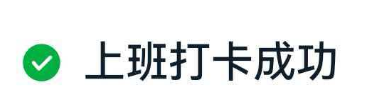
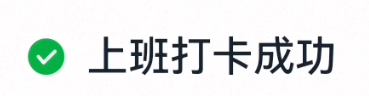
Enhance dingtalk_offwork_sequence.py to dynamically determine action name based on time of day; update PowerShell script to remove redundant random delay arguments; improve path handling in offwork_sequence.py; add schedule configuration management in web_panel_server.py.

Changed region(s): [[0.2087, 0.375, 0.9241, 0.7812], [0.0596, 0.375, 0.1789, 0.8125]]

diff --git a/src/web_panel_server.py b/src/web_panel_server.py
@@ -2,6 +2,7 @@ from __future__ import annotations
 
 import json
 import os
+import re
 import socket
 import subprocess
 import sys
@@ -34,6 +35,7 @@ TASKS = {
 TEMPLATE_DIR = ROOT / "assets" / "templates"
 SCREENSHOT_DIR = ROOT / "screenshots"
 CURRENT_SCREENSHOT = SCREENSHOT_DIR / "current_screen.png"
+SCHEDULE_FILE = LOG_DIR / "schedule_config.json"
 TEMPLATE_STEPS = {
     "morning.work_notice": {"mode": "morning", "mode_label": "上班打卡", "label": "打开上班打卡入口", "file": "morning_work_notice.png", "action": "click"},
     "morning.clock_button": {"mode": "morning", "mode_label": "上班打卡", "label": "点击打卡上班", "file": "morning_clock_button.png", "action": "click"},
@@ -124,13 +126,40 @@ def powershell(command: str, timeout: int = 15) -> subprocess.CompletedProcess:
     )
 
 
+def ps_quote(value: str) -> str:
+    return "'" + value.replace("'", "''") + "'"
+
+
+def parse_duration_minutes(value: str) -> float:
+    text = str(value or "").strip()
+    if not text:
+        return 0
+    match = re.fullmatch(r"(?:(\d+)\.)?(\d{1,2}):(\d{2}):(\d{2})", text)
+    if match:
+        days = int(match.group(1) or 0)
+        hours = int(match.group(2))
+        minutes = int(match.group(3))
+        seconds = int(match.group(4))
+        return days * 1440 + hours * 60 + minutes + seconds / 60
+    match = re.fullmatch(r"P(?:T)?(?:(\d+)H)?(?:(\d+)M)?(?:(\d+)S)?", text, re.IGNORECASE)
+    if match:
+        return int(match.group(1) or 0) * 60 + int(match.group(2) or 0) + int(match.group(3) or 0) / 60
+    return 0
+
+
 def get_single_task_info(task_name: str) -> dict:
     command = (
         f"$t=Get-ScheduledTask -TaskName '{task_name}' -ErrorAction SilentlyContinue; "
         f"$i=Get-ScheduledTaskInfo -TaskName '{task_name}' -ErrorAction SilentlyContinue; "
         "if ($t -and $i) { "
+        "$trigger=($t.Triggers | Select-Object -First 1); "
+        "$action=($t.Actions | Select-Object -First 1); "
+        "$triggerTime=''; if ($trigger -and $trigger.StartBoundary) { $triggerTime=([datetime]$trigger.StartBoundary).ToString('HH:mm') }; "
+        "$randomDelay=''; if ($trigger -and $trigger.RandomDelay) { $randomDelay=$trigger.RandomDelay.ToString() }; "
+        "$arguments=''; if ($action -and $action.Arguments) { $arguments=$action.Arguments }; "
         "[pscustomobject]@{installed=$true;state=$t.State.ToString();nextRun=$i.NextRunTime.ToString('yyyy-MM-dd HH:mm:ss');"
-        "lastRun=$i.LastRunTime.ToString('yyyy-MM-dd HH:mm:ss');lastResult=$i.LastTaskResult} | ConvertTo-Json -Compress "
+        "lastRun=$i.LastRunTime.ToString('yyyy-MM-dd HH:mm:ss');lastResult=$i.LastTaskResult;"
+        "triggerTime=$triggerTime;randomDelay=$randomDelay;arguments=$arguments} | ConvertTo-Json -Compress "
         "} else { [pscustomobject]@{installed=$false;state='Missing'} | ConvertTo-Json -Compress }"
     )
     try:
@@ -138,6 +167,11 @@ def get_single_task_info(task_name: str) -> dict:
         if result.returncode != 0:
             return {"installed": False}
         data = json.loads(result.stdout.strip() or "{}")
+        arguments = data.get("arguments", "") or ""
+        random_delay_match = re.search(r"--random-delay-minutes\s+([0-9.]+)", arguments)
+        command_random_delay_minutes = float(random_delay_match.group(1)) if random_delay_match else 0
+        trigger_random_delay_minutes = parse_duration_minutes(data.get("randomDelay", ""))
+        random_delay_minutes = max(command_random_delay_minutes, trigger_random_delay_minutes)
         return {
             "installed": bool(data.get("installed")),
             "state": data.get("state", ""),
@@ -145,6 +179,9 @@ def get_single_task_info(task_name: str) -> dict:
             "next_run": data.get("nextRun", ""),
             "last_run": data.get("lastRun", ""),
             "last_result": data.get("lastResult", ""),
+            "trigger_time": data.get("triggerTime", ""),
+            "random_delay": data.get("randomDelay", ""),
+            "random_delay_minutes": random_delay_minutes,
         }
     except Exception as exc:
         return {"installed": False, "error": str(exc)}
@@ -158,6 +195,7 @@ def get_task_info() -> dict:
         info["label"] = meta["label"]
         tasks[key] = info
 
+    apply_target_next_runs(tasks)
     installed_tasks = [task for task in tasks.values() if task.get("installed")]
     enabled_tasks = [task for task in installed_tasks if task.get("enabled")]
     next_runs = [task.get("next_run", "") for task in enabled_tasks if task.get("next_run")]
@@ -182,6 +220,60 @@ def trigger_time_for_target(target_time: str, random_window_minutes: int) -> str
     target = parse_hhmm(target_time)
     trigger = target - timedelta(minutes=random_window_minutes)
     return trigger.strftime("%H:%M")
+
+
+def save_schedule_config(morning_time: str, evening_time: str, random_window_minutes: int, workday_only: bool) -> None:
+    LOG_DIR.mkdir(parents=True, exist_ok=True)
+    payload = {
+        "morning_time": morning_time,
+        "evening_time": evening_time,
+        "random_window_minutes": random_window_minutes,
+        "workday_only": workday_only,
+        "updated_at": datetime.now().strftime("%Y-%m-%d %H:%M:%S"),
+    }
+    SCHEDULE_FILE.write_text(json.dumps(payload, ensure_ascii=False, indent=2), encoding="utf-8")
+
+
+def load_schedule_config() -> dict:
+    if not SCHEDULE_FILE.exists():
+        return {}
+    try:
+        return json.loads(SCHEDULE_FILE.read_text(encoding="utf-8"))
+    except Exception:
+        return {}
+
+
+def next_target_run(target_time: str, now: datetime | None = None) -> str:
+    now = now or datetime.now()
+    parsed = parse_hhmm(target_time)
+    candidate = now.replace(hour=parsed.hour, minute=parsed.minute, second=0, microsecond=0)
+    if candidate <= now:
+        candidate += timedelta(days=1)
+    return candidate.strftime("%Y-%m-%d %H:%M:%S")
+
+
+def add_minutes_to_hhmm(value: str, minutes: float) -> str:
+    parsed = parse_hhmm(value)
+    return (parsed + timedelta(minutes=minutes)).strftime("%H:%M")
+
+
+def apply_target_next_runs(tasks: dict) -> None:
+    schedule = load_schedule_config()
+    configured_targets = {"morning": schedule.get("morning_time"), "evening": schedule.get("evening_time")}
+    for key, task in tasks.items():
+        if not task.get("installed"):
+            continue
+        target_time = configured_targets.get(key)
+        if not target_time and task.get("trigger_time"):
+            random_window_minutes = float(task.get("random_delay_minutes") or 0) / 2
+            target_time = add_minutes_to_hhmm(str(task["trigger_time"]), random_window_minutes)
+        if not target_time:
+            continue
+        try:
+            task["target_time"] = str(target_time)
+            task["next_run"] = next_target_run(str(target_time))
+        except ValueError:
+            continue
 
 
 def task_missing_result(result: subprocess.CompletedProcess) -> bool:
@@ -420,25 +512,26 @@ class WebPanelHandler(BaseHTTPRequestHandler):
         for key, target_time in {"morning": morning_time, "evening": evening_time}.items():
             task_name = TASKS[key]["name"]
             trigger_time = trigger_time_for_target(target_time, random_window_minutes)
-            command_text = subprocess.list2cmdline(
-                automation_command(workday_only=workday_only, random_delay_minutes=random_delay_minutes, mode=key)
+            command_parts = automation_command(workday_only=workday_only, random_delay_minutes=0, mode=key)
+            execute = command_parts[0]
+            arguments = subprocess.list2cmdline(command_parts[1:])
+            random_delay_iso = f"PT{random_delay_minutes}M"
+            ps_command = "; ".join(
+                [
+                    "$ErrorActionPreference='Stop'",
+                    f"$Action=New-ScheduledTaskAction -Execute {ps_quote(execute)} -Argument {ps_quote(arguments)} -WorkingDirectory {ps_quote(str(ROOT))}",
+                    f"$Trigger=New-ScheduledTaskTrigger -Daily -At {ps_quote(trigger_time)}",
+                    f"$Trigger.RandomDelay={ps_quote(random_delay_iso)}",
+                    "$Settings=New-ScheduledTaskSettingsSet -AllowStartIfOnBatteries -DontStopIfGoingOnBatteries",
+                    f"Register-ScheduledTask -TaskName {ps_quote(task_name)} -Action $Action -Trigger $Trigger -Settings $Settings -Force | Out-Null",
+                    f"Write-Output {ps_quote('已注册计划任务：' + task_name + '，触发时间：' + trigger_time + '，Windows随机延迟：' + random_delay_iso)}",
+                ]
             )
-            command = [
-                "schtasks",
-                "/Create",
-                "/TN",
-                task_name,
-                "/TR",
-                command_text,
-                "/SC",
-                "DAILY",
-                "/ST",
-                trigger_time,
-                "/F",
-            ]
-            result = subprocess.run(command, cwd=ROOT, text=True, capture_output=True, creationflags=CREATE_NO_WINDOW)
+            result = powershell(ps_command, timeout=30)
             outputs.append({"task": task_name, "ok": result.returncode == 0, "stdout": result.stdout, "stderr": result.stderr})
             ok = ok and (result.returncode == 0 or task_missing_result(result))
+        if ok:
+            save_schedule_config(morning_time, evening_time, random_window_minutes, workday_only)
         self.send_json(
             {
                 "ok": ok,
@@ -462,6 +555,8 @@ class WebPanelHandler(BaseHTTPRequestHandler):
             )
             outputs.append({"task": task_name, "ok": result.returncode == 0, "stdout": result.stdout, "stderr": result.stderr})
             ok = ok and result.returncode == 0
+        if ok and SCHEDULE_FILE.exists():
+            SCHEDULE_FILE.unlink()
         self.send_json({"ok": ok, "outputs": outputs, "task": get_task_info()})
 
     def set_task_enabled(self, enabled: bool) -> None:

diff --git a/scripts/dingtalk_offwork_sequence.py b/scripts/dingtalk_offwork_sequence.py
@@ -65,17 +65,21 @@ def parse_args() -> argparse.Namespace:
 def main() -> int:
     args = parse_args()
     run_date = parse_date(args.date) if args.date else date.today()
+    mode = args.mode
+    if mode == "auto":
+        mode = "morning" if datetime.now().hour < 12 else "evening"
+    action_name = "上班打卡序列" if mode == "morning" else "下班打卡序列"
 
     if args.workday_only:
         description = describe_china_workday(run_date)
         print(description)
         if not is_china_workday(run_date):
             print("跳过：今天不是中国工作日")
-            append_action("下班打卡序列", "跳过", "今天不是中国工作日", {"date": run_date.isoformat()})
+            append_action(action_name, "跳过", "今天不是中国工作日", {"date": run_date.isoformat(), "mode": mode})
             return 0
     if args.dry_run:
         print("检查完成：今天会执行点击序列")
-        append_action("下班打卡序列", "检查", "今天会执行点击序列", {"date": run_date.isoformat()})
+        append_action(action_name, "检查", "今天会执行点击序列", {"date": run_date.isoformat(), "mode": mode})
         return 0
 
     try:
@@ -90,9 +94,6 @@ def main() -> int:
                 {"seconds": wait_seconds, "max_seconds": max_seconds},
             )
             time.sleep(wait_seconds)
-        mode = args.mode
-        if mode == "auto":
-            mode = "morning" if datetime.now().hour < 12 else "evening"
         print(f"打卡模式：{'上班打卡' if mode == 'morning' else '下班打卡'}")
         run_offwork_sequence(
             package=args.package,

diff --git a/src/offwork_sequence.py b/src/offwork_sequence.py
@@ -7,6 +7,7 @@ from typing import Callable
 
 from src.adb import force_stop_package, launch_package, lock_screen
 from src.run_state import append_action, mark_completed
+from src.paths import resource_path
 from src.scrcpy import click_scrcpy_relative, close_window, ensure_any_scrcpy_window
 from src.vision import wait_click_template, wait_template
 
@@ -99,7 +100,7 @@ def run_offwork_sequence(
 
     hwnd, started_scrcpy = ensure_any_scrcpy_window(title, timeout=timeout)
     emit(f"scrcpy 窗口：句柄={hwnd}，本次启动={'是' if started_scrcpy else '否'}")
-    template_dir = template_dir or Path("assets/templates")
+    template_dir = template_dir or resource_path("assets/templates")
 
     def execute_step(index: int, step: ClickStep, timeout_seconds: float) -> tuple[str, dict]:
         template_path = template_dir / step.template if step.template else None